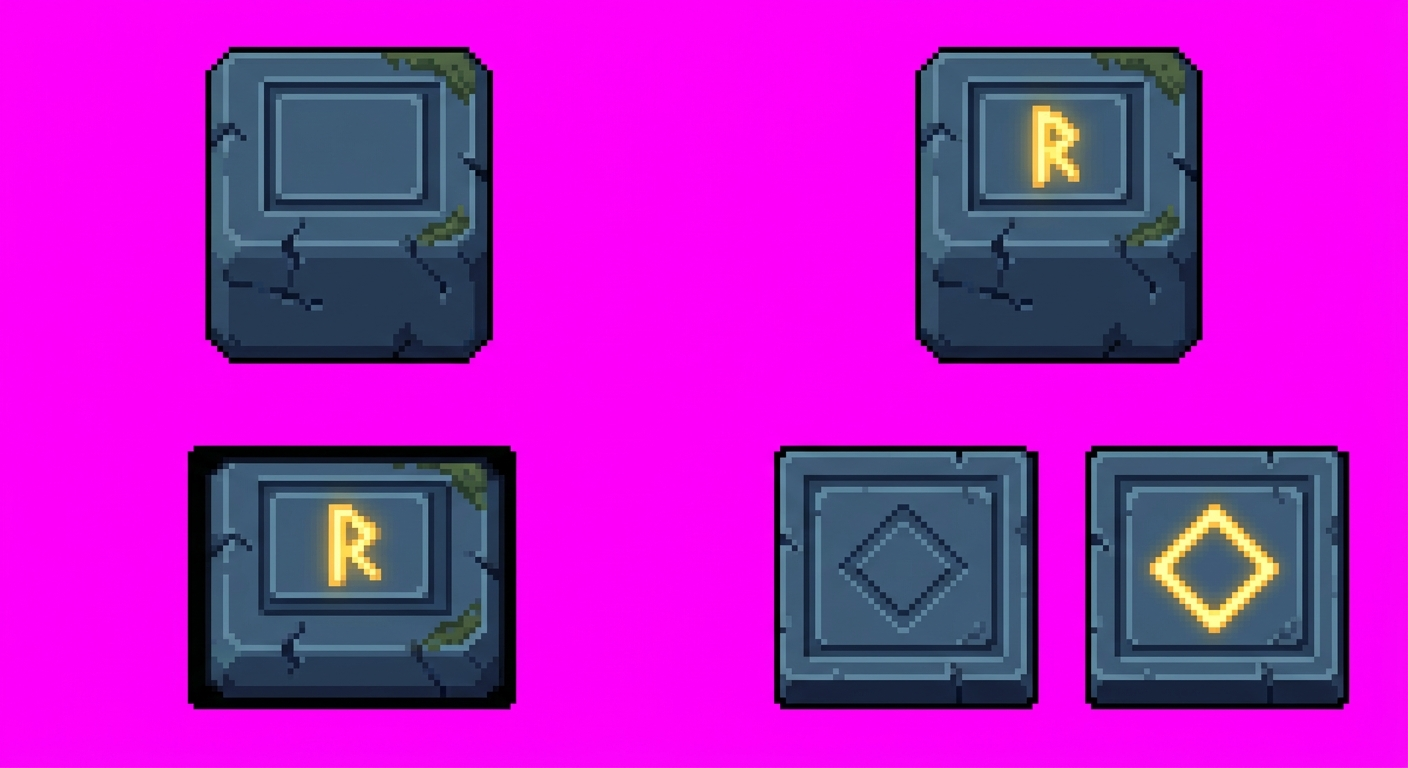
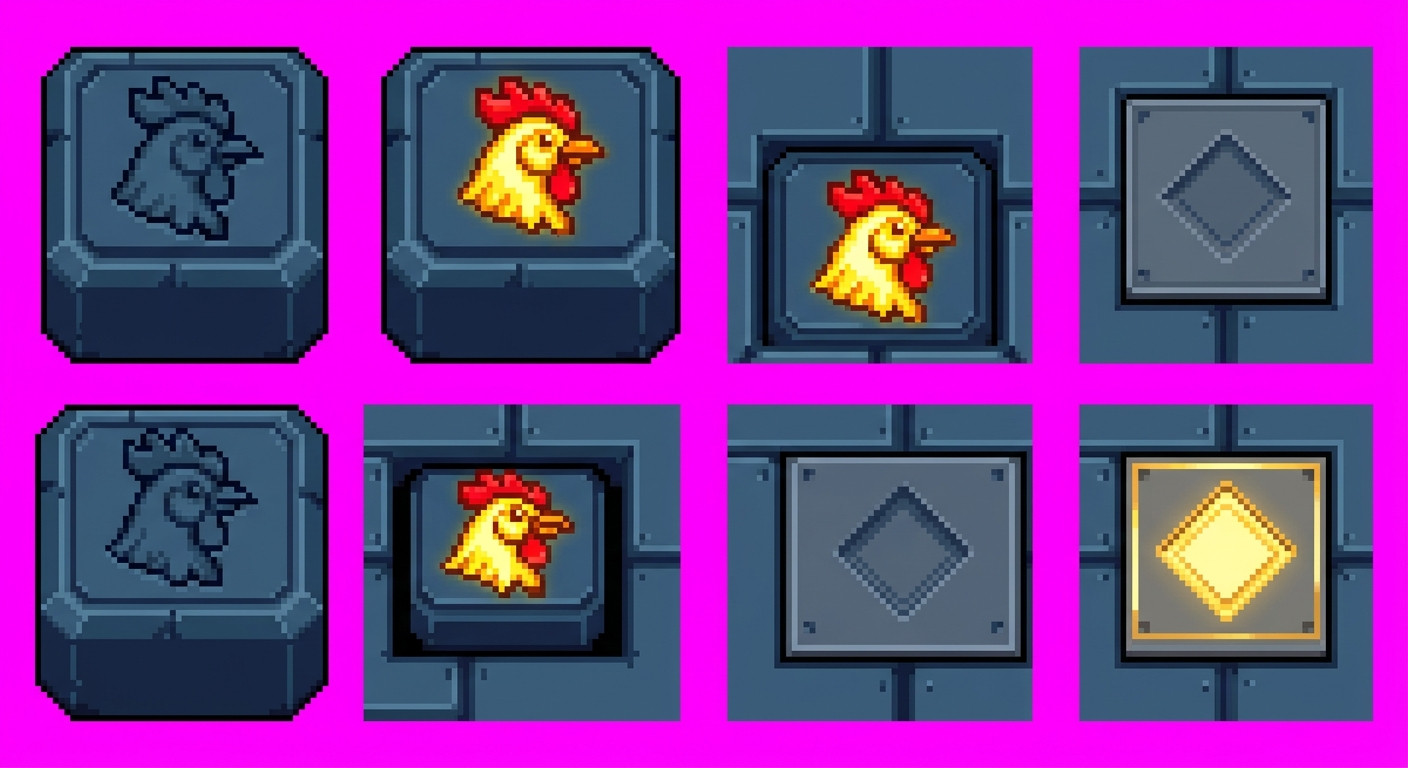
Blocs: corps de la nouvelle planche Gemini + tete de coq nette, plaques de la 1re planche
Claude-Session: https://claude.ai/code/session_01R6DULziKfSGZcEEcyC3Cch

diff --git a/Outils/traiter_blocs_gemini.py b/Outils/traiter_blocs_gemini.py
@@ -1,11 +1,12 @@
 """Outil de développement (APRÈS fabriquer_bloc.py, qui n'est plus qu'un repli) : découpe la planche Gemini `blocs_pierre.jpg`
-(bloc simple, bloc à rune dorée, bloc enfoncé, plaque au sol inactive / active, fond magenta) et écrit dans Assets/Gemini/tuiles/ :
+(8 pièces : blocs au COQ gravé / doré, blocs enfoncés, plaques au sol ; fond magenta) et écrit dans Assets/Gemini/tuiles/ :
   bloc_pierre.png, bloc_pierre_actif.png, bloc_pierre_enfonce.png (le bloc qui comble un trou), marque.png, marque_active.png  (16x16)."""
 import numpy as np
 from PIL import Image, ImageFilter
 from scipy import ndimage
 
 SRC = "Assets/Gemini/originaux/blocs_pierre.jpg"
+SRC_PLAQUES = "Assets/Gemini/originaux/blocs_pierre_plaques.jpg"   # 1re planche : ses plaques au sol restent lisibles à 16 px (celles de la 2e sont trop fines)
 SORTIE = "Assets/Gemini/tuiles/"
 CONTOUR = (14, 16, 24)
 
@@ -26,8 +27,8 @@ def reduire(img, m, x0, x1, y0, y1):
     return p
 
 
-# SYMBOLE du bloc : la TÊTE DE COQ de profil (l'emblème du jeu : village du Coq Chantant, Forteresse en forme de coq, girouette, stèles), pas une lettre.
-# 8x7 pixels : c = crête, 1 = tête dorée, 2 = ombre, b = bec, e = oeil.
+# TÊTE DE COQ de profil dessinée à la main (8x7 px) : la tête de coq de Gemini devient une bouillie à 16 px (trop détaillée).
+# c = crête, 1 = tête dorée, 2 = ombre, b = bec, e = oeil.
 COQ = ["c.c.....",
        "ccccc...",
        ".c1111..",
@@ -36,26 +37,20 @@ COQ = ["c.c.....",
        "..1cc...",
        "..122..."]
 COULEURS = {"c": (222, 58, 46, 255), "1": (255, 214, 90, 255), "2": (206, 154, 48, 255), "b": (236, 150, 40, 255), "e": (52, 28, 10, 255)}
-GRAVURE = {"c": (74, 104, 128, 255), "1": (40, 64, 90, 255), "2": (32, 52, 76, 255), "b": (62, 92, 116, 255), "e": (20, 34, 54, 255)}   # coq creusé (bloc simple)
+GRAVURE = {"c": (72, 102, 126, 255), "1": (48, 73, 98, 255), "2": (42, 64, 88, 255), "b": (66, 95, 119, 255), "e": (30, 46, 68, 255)}
 
 
-def symbole_coq(im, nom):
-    """Efface la rune « R » de Gemini (taches dorées) et pose une tête de coq : creusée sur le bloc simple, en couleurs (crête rouge, tête or, bec orange) sur les blocs actifs / enfoncés."""
-    fond = im.getpixel((4, 5))                         # couleur du panneau de la face supérieure
-    for y in range(16):
-        for x in range(16):
-            r, g, b, a = im.getpixel((x, y))
-            if a and r > 170 and b < 140:
-                im.putpixel((x, y), fond)
-    x0, y0 = 4, 2
+def symbole_coq(im, nom, couleur, rect, origine):
+    """Efface le coq de Gemini (illisible une fois réduit : on vide le panneau) et pose notre tête de coq : creusée sur le bloc simple, en couleurs sur les blocs actif / enfoncé."""
+    x0, x1, y0, y1 = rect
+    for y in range(y0, y1 + 1):
+        for x in range(x0, x1 + 1):
+            im.putpixel((x, y), couleur)
+    ox, oy = origine
     for j, ligne in enumerate(COQ):
         for i, c in enumerate(ligne):
-            if c == ".":
-                continue
-            if nom == "bloc_pierre":
-                im.putpixel((x0 + i, y0 + j), GRAVURE[c])
-            else:
-                im.putpixel((x0 + i, y0 + j), COULEURS[c])
+            if c != ".":
+                im.putpixel((ox + i, oy + j), GRAVURE[c] if nom == "bloc_pierre" else COULEURS[c])
 
 
 img = np.array(Image.open(SRC).convert("RGB"))
@@ -67,15 +62,47 @@ pieces = []
 for i in gardes:
     ys, xs = np.where(lab == i)
     pieces.append((xs.min(), xs.max() + 1, ys.min(), ys.max() + 1))
-# 5 pièces : rangée du haut (bloc, bloc à rune), rangée du bas (bloc enfoncé, plaque, plaque active)
+# 8 pièces, 4 colonnes x 2 rangées :
+#   haut : bloc (coq gravé), bloc (coq doré), bloc enfoncé dans son trou (avec le sol autour), plaque inactive
+#   bas  : bloc (variante), bloc enfoncé (variante, cadre noir), plaque inactive (variante), plaque active
 pieces.sort(key=lambda b: (b[2] // 300, b[0]))
-assert len(pieces) == 5, pieces
-noms = ["bloc_pierre", "bloc_pierre_actif", "bloc_pierre_enfonce", "marque", "marque_active"]
-for nom, (x0, x1, y0, y1) in zip(noms, pieces):
-    im = reduire(img, m, x0, x1, y0, y1)
-    if nom.startswith("bloc_pierre"):
-        symbole_coq(im, nom)
+assert len(pieces) == 8, pieces
+P = pieces
+# le bloc ENFONCÉ : on ne garde que le trou (cadre sombre) et le bloc dedans, sans le sol autour
+x0, x1, y0, y1 = P[5]
+zone = img[y0:y1, x0:x1]
+sombre = zone.max(axis=2) < 34
+ys, xs = np.where(sombre)
+cadre = (x0 + xs.min(), x0 + xs.max() + 1, y0 + ys.min(), y0 + ys.max() + 1)
+m_cadre = m.copy()
+m_cadre[:] = False
+m_cadre[cadre[2]:cadre[3], cadre[0]:cadre[1]] = True
+sources = {"bloc_pierre": (P[0], m), "bloc_pierre_actif": (P[1], m), "bloc_pierre_enfonce": (cadre, m_cadre)}
+brut = {}
+for nom, (boite, masque) in sources.items():
+    x0, x1, y0, y1 = boite
+    brut[nom] = reduire(img, masque, x0, x1, y0, y1)
+couleur_bloc = (58, 84, 108, 255)       # couleur du panneau vide de la face supérieure (bleu-gris de la pierre)
+couleur_enfonce = (60, 88, 112, 255)
+for nom, im in brut.items():
+    if nom == "bloc_pierre_enfonce":
+        symbole_coq(im, nom, couleur_enfonce, (3, 12, 1, 10), (4, 2))
+    else:
+        symbole_coq(im, nom, couleur_bloc, (4, 11, 1, 9), (4, 2))
     im.save(SORTIE + nom + ".png")
+# plaques au sol : planche n°1 (même découpe que la v1 : 5 pièces ; plaques = les 2 dernières)
+img1 = np.array(Image.open(SRC_PLAQUES).convert("RGB"))
+m1 = ~fond(img1)
+lab1, n1 = ndimage.label(m1)
+t1 = ndimage.sum(m1, lab1, range(1, n1 + 1))
+p1 = []
+for i in [i + 1 for i, t in enumerate(t1) if t > 5000]:
+    ys, xs = np.where(lab1 == i)
+    p1.append((xs.min(), xs.max() + 1, ys.min(), ys.max() + 1))
+p1.sort(key=lambda b: (b[2] // 300, b[0]))
+for nom, boite in (("marque", p1[3]), ("marque_active", p1[4])):
+    x0, x1, y0, y1 = boite
+    reduire(img1, m1, x0, x1, y0, y1).save(SORTIE + nom + ".png")
 # la marque VIDE doit attirer l'oeil (règle : une marque dorée au sol = « il y a quelque chose à poser ici ») :
 # on reprend la forme de la marque ACTIVE avec son or éteint (terni)
 act = Image.open(SORTIE + "marque_active.png").convert("RGBA")
@@ -83,7 +110,7 @@ vide = Image.open(SORTIE + "marque.png").convert("RGBA")
 for y in range(16):
     for x in range(16):
         r, g, b, a = act.getpixel((x, y))
-        if a and r > 190 and g > 160 and b < 150:
+        if a and r > 190 and g > 150 and b < 190 and r > b + 40:
             vide.putpixel((x, y), (146, 124, 56, 255))
 vide.save(SORTIE + "marque.png")
-print("blocs Gemini découpés :", noms)
+print("blocs Gemini découpés :", list(sources))

diff --git a/CLAUDE.md b/CLAUDE.md
@@ -936,3 +936,4 @@
 - 2026-11-15 : planche Gemini reçue `Assets/Gemini/originaux/blocs_pierre.jpg` (bloc, bloc à rune dorée, bloc enfoncé, plaque inactive/active). **15o** : `Outils/traiter_blocs_gemini.py` (APRÈS fabriquer_bloc.py, qui n'est plus qu'un repli) -> `bloc_pierre`, `bloc_pierre_actif`, `bloc_pierre_enfonce` (NOUVEAU : le bloc qui comble un trou, bord sombre), `marque`, `marque_active` (16x16 ; la marque vide = losange d'or terni pour attirer l'oeil, repris de la marque active). `Bloc` : 5e paramètre `texture_enfonce`, drapeau `_comble` (un bloc-pont garde son image enfoncée même quand `briller` est rappelé). Tests OK, captures réelles Plume1 + Plume3b (pont fini) vérifiées.
 - 2026-11-15 : retour : « pourquoi un R sur le bloc ? ce n'est pas le symbole du village ni du donjon ». Cause : la planche Gemini avait gravé une rune « R » au hasard. **15p** : `traiter_blocs_gemini.py` efface la rune et pose la **PLUME** (l'icône `plume_doree.png` réduite à 7x7 = le motif des ailes / de la Forteresse, la même plume qu'on ramasse) : DORÉE sur le bloc actif et le bloc enfoncé, GRAVÉE (creusée, sombre) sur le bloc simple. Ordre : `fabriquer_objets.py` (plume_doree) puis `traiter_blocs_gemini.py`. Règle : tout symbole gravé doit venir de l'univers du jeu (plume, coq, blason), jamais d'une lettre. Tests OK.
 - 2026-11-15 : « et pourquoi pas un coq ? » -> OUI (l'emblème du jeu : village du Coq Chantant, Forteresse-coq, girouette, stèles). **15q** : le symbole du bloc devient une TÊTE DE COQ de profil dessinée à la main (8x7 px : crête rouge, tête or, bec orange, oeil) : en couleurs sur le bloc actif et le bloc enfoncé, creusée (discrète) sur le bloc simple. `traiter_blocs_gemini.py::symbole_coq` (n'utilise plus `plume_doree.png`). La plume reste l'icône de l'objet à ramasser. Tests OK.
+- 2026-11-15 : nouvelle planche Gemini `blocs_pierre.jpg` (8 pièces : blocs au COQ gravé / doré, blocs enfoncés, plaques) ; l'ancienne planche est gardée sous `blocs_pierre_plaques.jpg`. CONSTAT : une fois réduit à 16 px, le coq de Gemini devient une bouillie (trop détaillé) ET ses plaques au sol aussi. **15r** : `traiter_blocs_gemini.py` prend de la nouvelle planche seulement les CORPS des blocs (bords biseautés, mousse, face avant), VIDE le panneau et y pose notre tête de coq dessinée à la main (8x7 px : creusée et discrète sur le bloc simple, crête rouge / tête or / bec orange sur le bloc actif et le bloc enfoncé) ; le bloc enfoncé = le cadre sombre de la pièce « enfoncée » ; les plaques viennent de l'ANCIENNE planche (losange d'or terni quand vide). Leçon : demander à Gemini des symboles TRÈS simples (gros aplats) si on les veut lisibles à 16 px. Tests OK.
